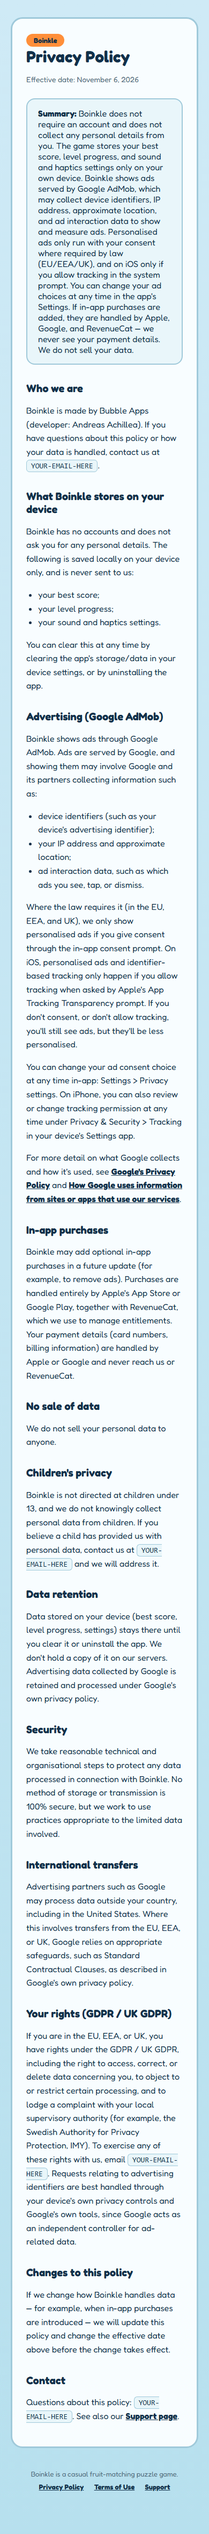
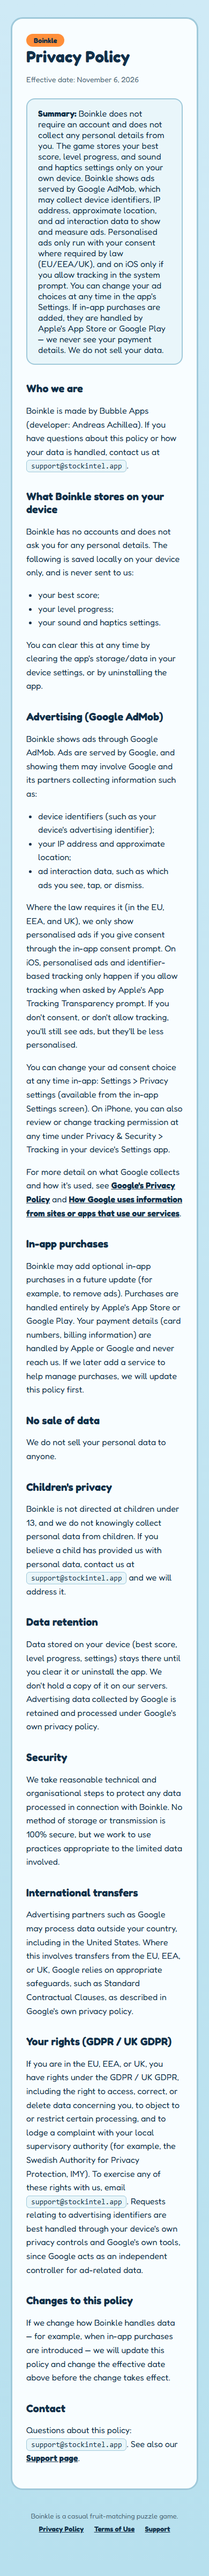
Privacy policy: remove RevenueCat mention
Remove RevenueCat from the in-app purchases section and summary
box of docs/index.html; purchases are now described as handled
entirely by Apple's App Store or Google Play, with a note that
we'll update the policy first if a purchase-management service is
added later. Clarify "Settings > Privacy settings" wording in
index.html and support.html with "(available from the in-app
Settings screen)". Refresh verification screenshots and update
USER-TODO.md (email step done; remaining: push, enable Pages,
wire URLs into stores, lawyer review).

Changed region(s): [[0.1231, 0.0, 0.8615, 0.997], [0.8308, 0.6855, 0.8615, 0.7166]]

diff --git a/docs/index.html b/docs/index.html
@@ -52,8 +52,8 @@
       show and measure ads. Personalised ads only run with your consent where required by law
       (EU/EEA/UK), and on iOS only if you allow tracking in the system prompt. You can change your
       ad choices at any time in the app's Settings. If in-app purchases are added, they are
-      handled by Apple, Google, and RevenueCat — we never see your payment details. We do not sell
-      your data.
+      handled by Apple's App Store or Google Play — we never see your payment details. We do not
+      sell your data.
     </div>
 
     <h2>Who we are</h2>
@@ -95,8 +95,9 @@
       see ads, but they'll be less personalised.
     </p>
     <p>
-      You can change your ad consent choice at any time in-app: Settings &gt; Privacy settings.
-      On iPhone, you can also review or change tracking permission at any time under
+      You can change your ad consent choice at any time in-app: Settings &gt; Privacy settings
+      (available from the in-app Settings screen). On iPhone, you can also review or change
+      tracking permission at any time under
       Privacy &amp; Security &gt; Tracking in your device's Settings app.
     </p>
     <p>
@@ -109,9 +110,9 @@
     <h2>In-app purchases</h2>
     <p>
       Boinkle may add optional in-app purchases in a future update (for example, to remove ads).
-      Purchases are handled entirely by Apple's App Store or Google Play, together with
-      RevenueCat, which we use to manage entitlements. Your payment details (card numbers, billing
-      information) are handled by Apple or Google and never reach us or RevenueCat.
+      Purchases are handled entirely by Apple's App Store or Google Play. Your payment details
+      (card numbers, billing information) are handled by Apple or Google and never reach us. If we
+      later add a service to help manage purchases, we will update this policy first.
     </p>
 
     <h2>No sale of data</h2>

diff --git a/docs/support.html b/docs/support.html
@@ -75,8 +75,9 @@
     <div class="faq">
       <h3>How do I change my ad consent?</h3>
       <p>
-        Open Settings &gt; Privacy settings inside Boinkle to review or change your advertising
-        consent choices at any time. On iPhone, you can also review tracking permission under
+        Open Settings &gt; Privacy settings (available from the in-app Settings screen) to review
+        or change your advertising consent choices at any time. On iPhone, you can also review
+        tracking permission under
         Privacy &amp; Security &gt; Tracking in your device's Settings app.
       </p>
     </div>

diff --git a/USER-TODO.md b/USER-TODO.md
@@ -1,15 +1,9 @@
 # User TODO — before shipping Boinkle's store listings
 
-1. **Replace the contact email.** Find/replace `YOUR-EMAIL-HERE` in all three pages:
-   - `docs/index.html`
-   - `docs/terms.html`
-   - `docs/support.html`
+1. ~~Replace the contact email.~~ **Done** — `support@stockintel.app` is set in all three pages
+   (`docs/index.html`, `docs/terms.html`, `docs/support.html`).
 
-2. **Have the text reviewed.** `docs/terms.html` is explicitly marked as a template (see the HTML
-   comment at the top of the file) — get it checked by a qualified lawyer before relying on it,
-   and ideally have the privacy policy checked too given the GDPR/AdMob content.
-
-3. **Push to the public repo and enable Pages:**
+2. **Push to the public repo and enable Pages:**
    - Push this repo to `https://github.com/stockintelai45-blip/match-drop-legal` (public).
    - In GitHub: Settings > Pages > Source = branch `main`, folder `/docs`.
    - Resulting URLs:
@@ -17,15 +11,13 @@
      - Terms: `https://stockintelai45-blip.github.io/match-drop-legal/terms.html`
      - Support: `https://stockintelai45-blip.github.io/match-drop-legal/support.html`
 
-4. **Wire the URLs into the stores:**
+3. **Wire the URLs into the stores:**
    - App Store Connect: set Privacy Policy URL (privacy page) and Support URL (support page).
    - Google Play Console: set Privacy Policy URL and (optionally) a support/contact URL.
+   - Keep App Privacy / Data Safety answers consistent with this policy: declare AdMob's data
+     collection (device identifiers, IP/approximate location, ad interaction data), and on-device
+     -only storage of best score / level progress / settings (no account).
 
-5. **Keep App Privacy / Data Safety answers consistent with this policy:**
-   - Declare AdMob's data collection (device identifiers, IP/approximate location, ad interaction
-     data) in both App Store "App Privacy" and Play "Data Safety" forms.
-   - Declare on-device-only storage of best score / level progress / settings (no account, no data
-     linked to identity beyond what AdMob itself collects).
-   - When in-app purchases ship, add RevenueCat + purchase data to both forms and update
-     `docs/index.html`'s "In-app purchases" section from future tense to present tense if its
-     wording needs it.
+4. **Have the text reviewed by a qualified lawyer.** `docs/terms.html` is explicitly marked as a
+   template (see the HTML comment at the top of the file) — get it checked before relying on it,
+   and ideally have the privacy policy checked too given the GDPR/AdMob content.
